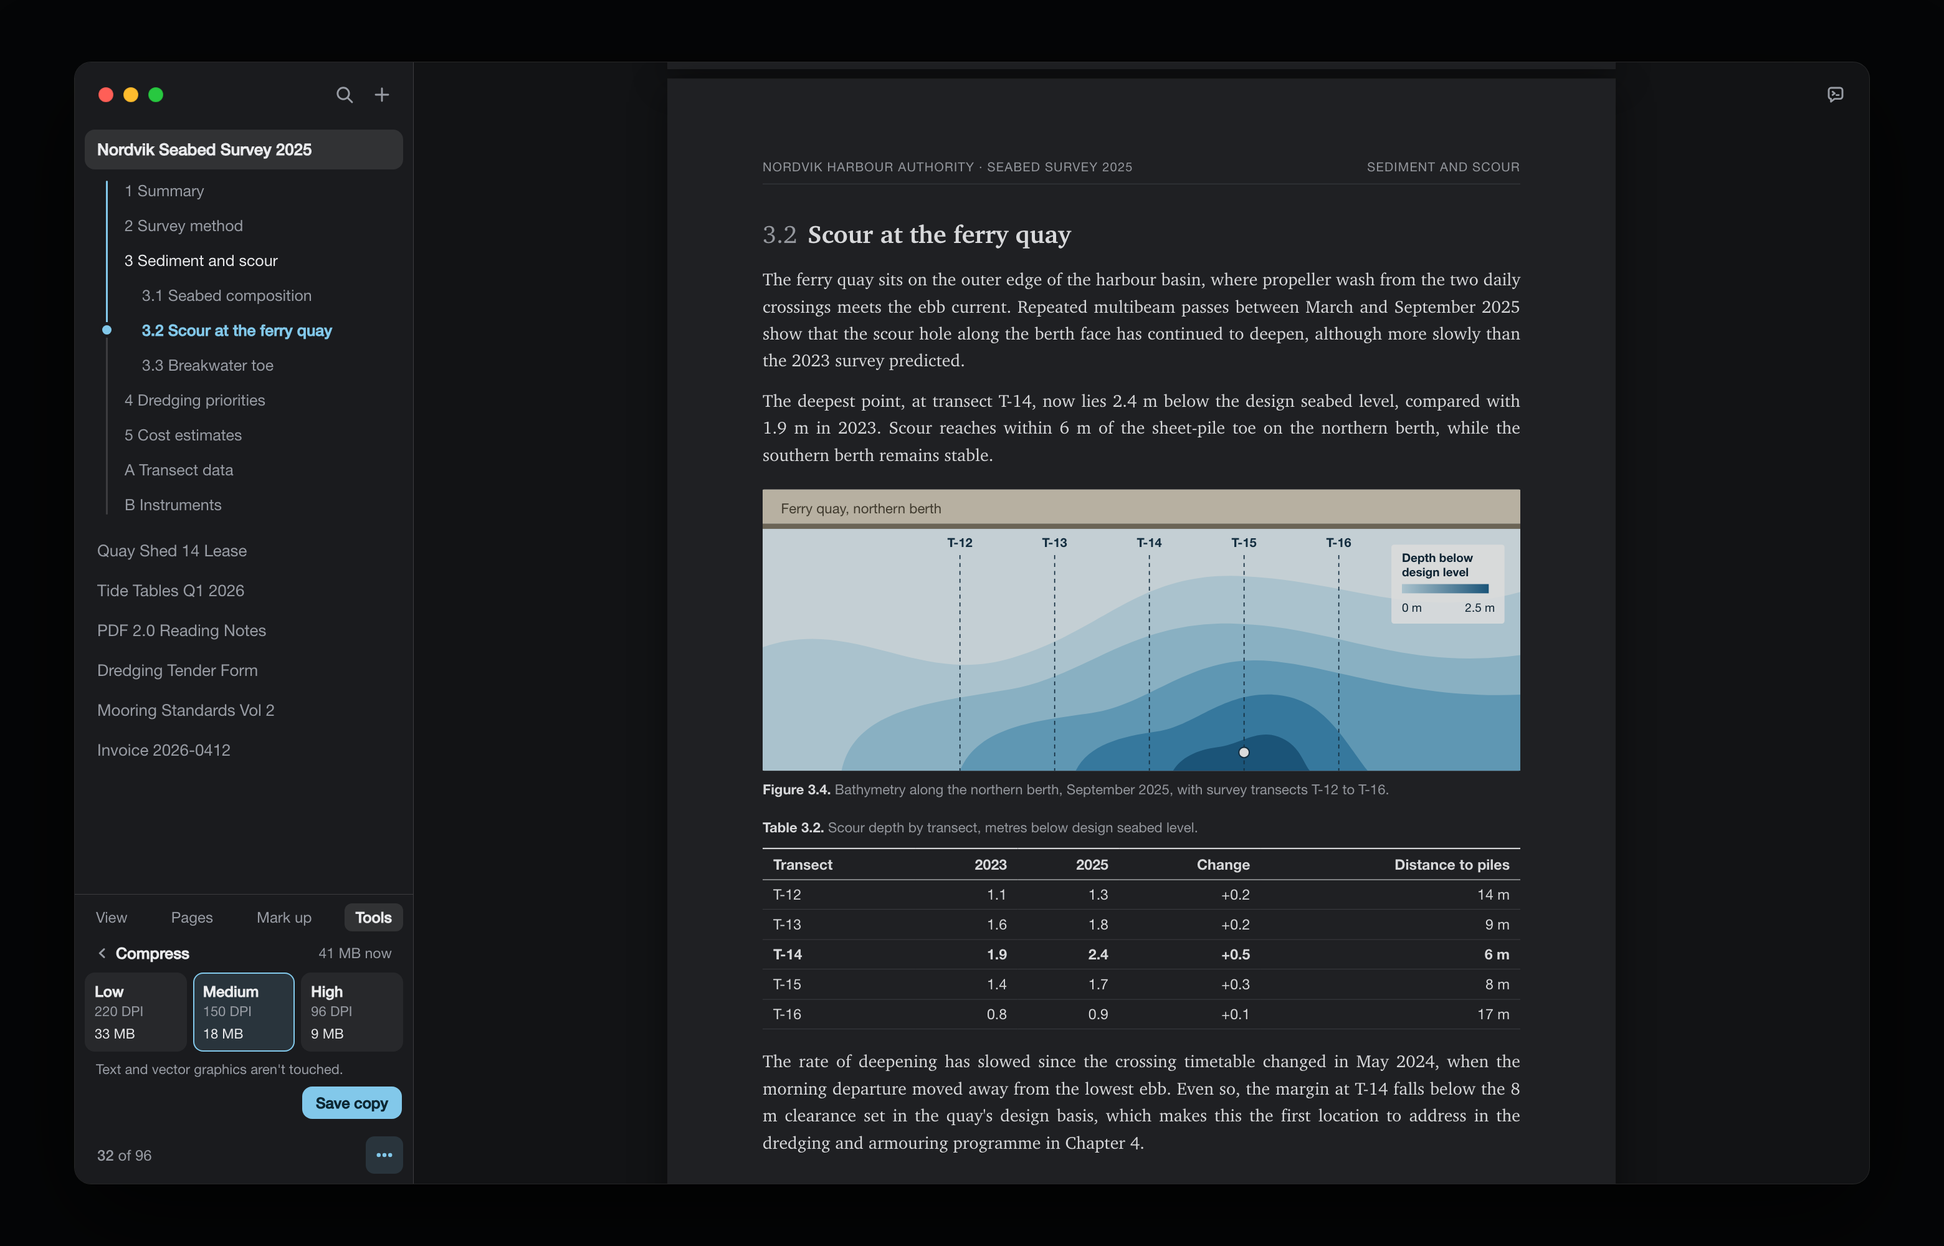
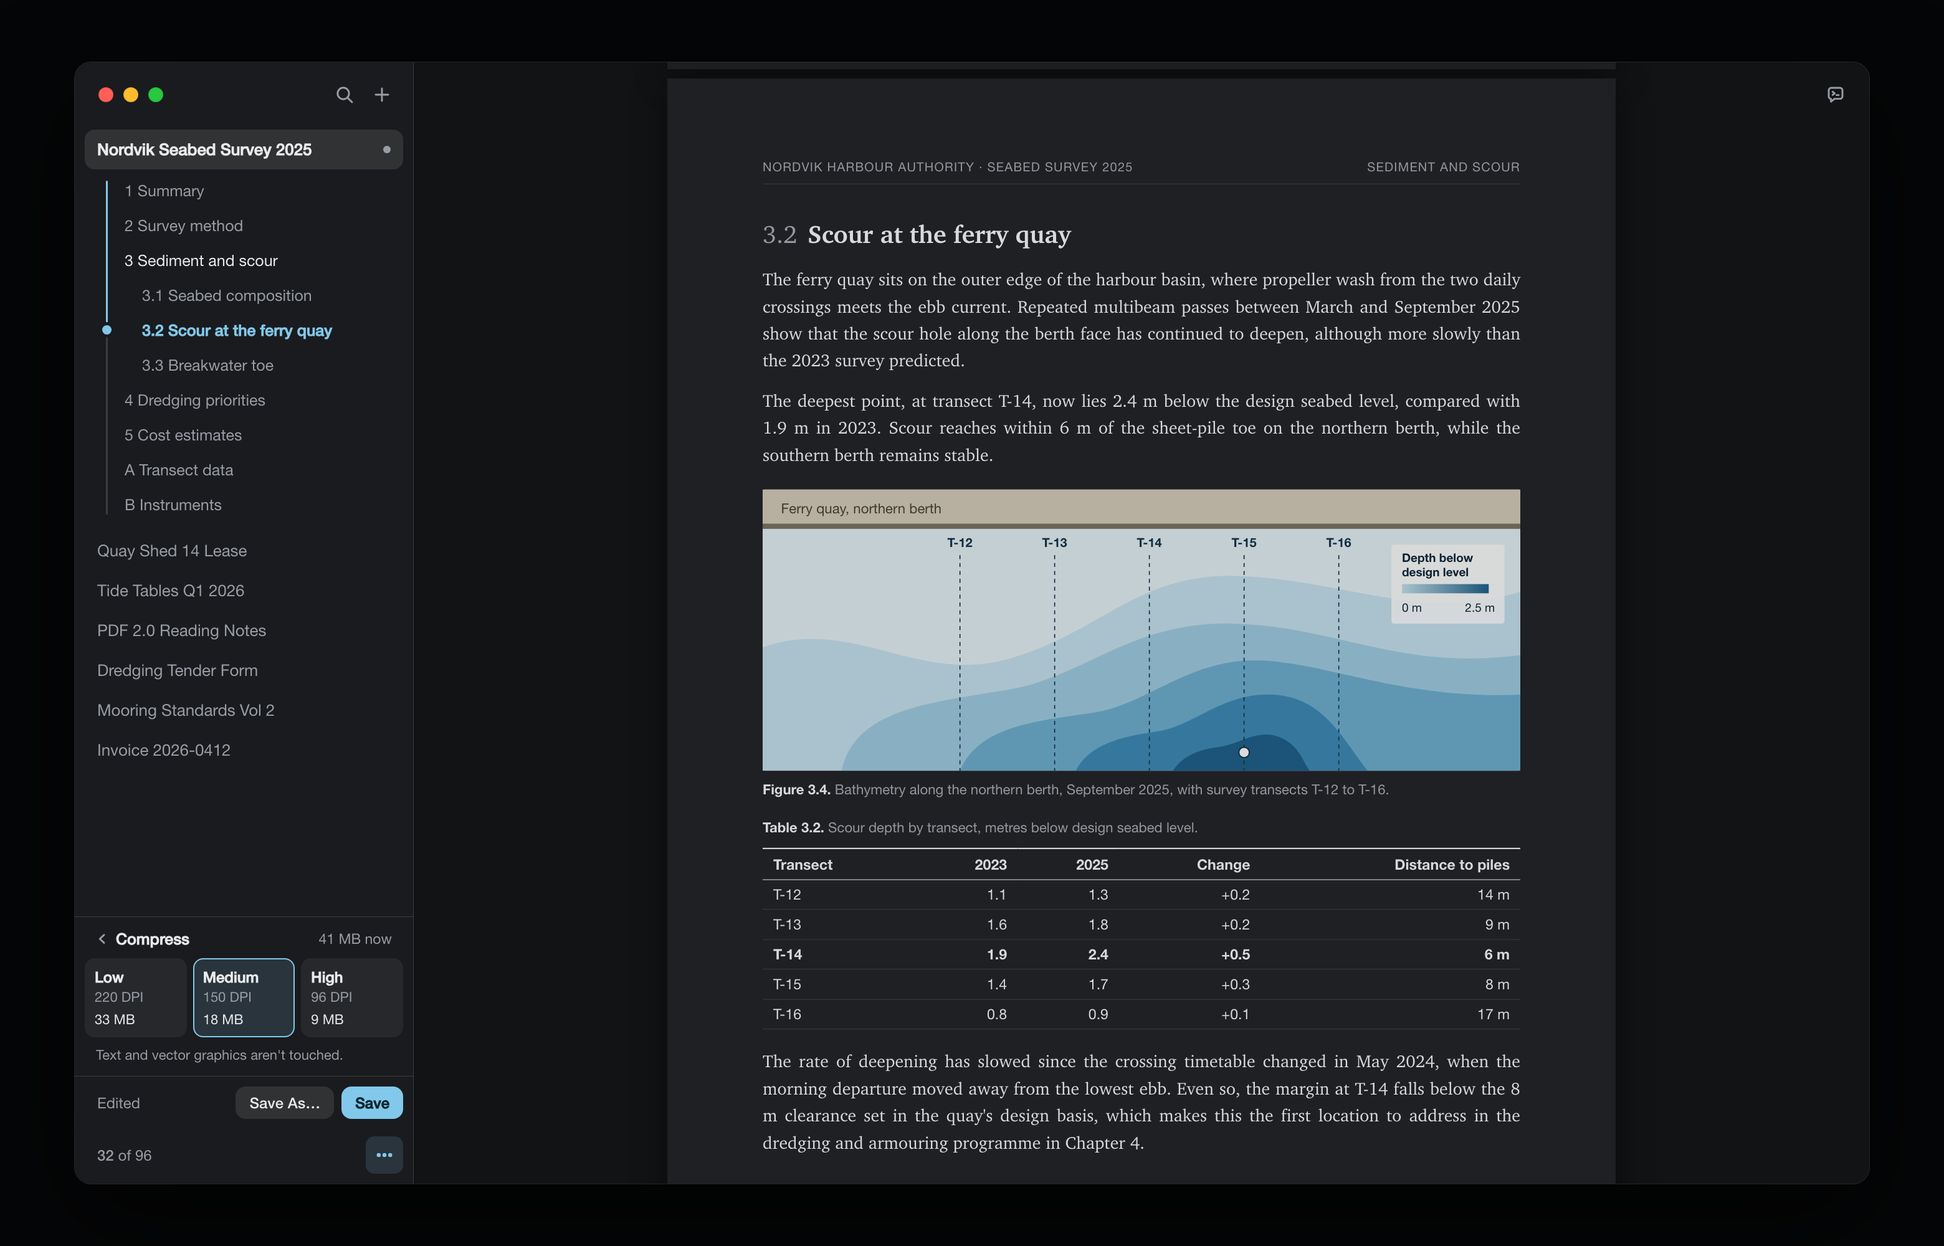
Give every command a home in the macOS menu bar
Commands move to File, Edit, View, Go, Pages, Mark Up and Tools. The sidebar
panel keeps only reading-time controls, and Save and Save As appear when there
are unsaved changes.

Changed region(s): [[0.0311, 0.713, 0.1865, 0.899], [0.1865, 0.713, 0.2176, 0.744]]

diff --git a/docs/concepts/src/concept.js b/docs/concepts/src/concept.js
@@ -62,44 +62,56 @@ function tocHtml(items, showPages = false) {
 }
 
 // At rest: names and contents only. Page numbers and the chevron appear on hover.
-function sidebar({ active = "survey", open = true, tabs = TABS, tap = false, hover = false, on = "", pg = [32, 96], body = null, chrome = true, menu = "" } = {}) {
+function sidebar({ active = "survey", open = true, tabs = TABS, tap = false, hover = false, on = "", pg = [32, 96], body = null, chrome = true, menu = "", edited = false } = {}) {
   const rows = tabs.map((t) => {
     const isOn = t.id === active;
-    return `<div class="tab ${isOn ? "active" : ""}"><span class="name">${t.name}</span>
+    return `<div class="tab ${isOn ? "active" : ""}"><span class="name">${t.name}</span>${isOn && edited ? '<i class="dot"></i>' : ""}
       ${isOn && (hover || !open) ? `<span class="chev ${open ? "open" : ""}">${I.chev}</span>` : ""}</div>
       ${isOn && body ? body : ""}${isOn && open && !body && t.toc ? tocHtml(t.toc, hover) : ""}`;
   }).join("");
   return `<aside class="sidebar">
     <div class="side-top"><div class="lights"><i></i><i></i><i></i></div><span class="ibtn ${on.includes("search") ? "on" : ""}">${I.search}</span><span class="ibtn">${I.plus}</span></div>
     <div class="tabs" style="position:relative">${rows}${tap ? '<span class="tap"></span>' : ""}</div>
-    ${menu}<div class="side-foot">${chrome ? `<span class="place"><b>${pg[0]}</b> of ${pg[1]}</span>` : "<span></span>"}<span class="ibtn ${on.includes("more") ? "on" : ""}">${I.more}</span></div>
+    ${menu}${edited ? SAVEROW : ""}<div class="side-foot">${chrome ? `<span class="place"><b>${pg[0]}</b> of ${pg[1]}</span>` : "<span></span>"}<span class="ibtn ${on.includes("more") ? "on" : ""}">${I.more}</span></div>
   </aside>`;
 }
 
 const AGENT = (on = false) => `<span class="ibtn agentbtn ${on ? "on" : ""}">${I.ask}</span>`;
 const pill = (page, total) => `<div class="pill"><span class="sec"><span class="num">${page}</span> of ${total}</span></div>`;
-// The ⋯ button opens this in the lower part of the sidebar. PDFs and contents stay visible above it.
-const DOCK_TABS = ["View", "Pages", "Mark up", "Tools"];
-const grid = (items) => `<div class="dgrid">${items.map((t) => `<span>${t}</span>`).join("")}</div>`;
+// The ⋯ button opens this in the lower sidebar. It holds only what you touch while reading; the macOS menu bar has the rest.
+const DOCK_TABS = ["View", "Mark up", "Pages"];
+const grid = (items, on = "") => `<div class="dgrid">${items.map((t) => `<span class="${t === on ? "on" : ""}">${t}</span>`).join("")}</div>`;
 const PANES = {
   View: () => `<div class="dpane">
     <div class="drow">Zoom<span class="zoom"><span class="zb">${I.minus}</span>125%<span class="zb">${I.plus14}</span><span class="zb">${I.fit}</span></span></div>
     ${theme === "dark" ? `<div class="drow">Paper<span class="seg mini"><span class="on">Dark</span><span>White</span></span></div>` : ""}
-    <div class="drow">Layout<span class="seg mini"><span class="on">Single</span><span>Spread</span></span></div></div>
-    ${grid(["Focus view", "Hide sidebar", "Print…", "Settings…"])}`,
-  Pages: () => grid(["Thumbnails", "Rotate", "Reorder", "Insert", "Delete", "Extract", "Merge", "Split"]),
-  "Mark up": () => grid(["Highlight", "Underline", "Strikeout", "Note", "Draw", "Image signature", "Fill form", "Create form"]),
-  Tools: () => grid(["Snapshot", "Compare", "Compress", "Make searchable", "Redact", "Remove hidden data", "Watermark", "Bates numbers", "Password", "Measure"]),
+    <div class="drow">Layout<span class="seg mini"><span class="on">Single</span><span>Spread</span></span></div></div>`,
+  "Mark up": () => grid(["Highlight", "Underline", "Strikeout", "Note", "Draw", "Signature image"], "Highlight"),
+  Pages: () => grid(["Thumbnails", "Rotate", "Delete", "Extract"]),
 };
-const DOCK = (tab = "View", body = "") => `<div class="dock"><div class="dtabs">${DOCK_TABS.map((t) => `<span class="${t === tab ? "on" : ""}">${t}</span>`).join("")}</div>${body || PANES[tab]()}</div>`;
+const DOCK = (tab = "View", body = "") => body ? `<div class="dock">${body}</div>` : `<div class="dock"><div class="dtabs">${DOCK_TABS.map((t) => `<span class="${t === tab ? "on" : ""}">${t}</span>`).join("")}</div>${PANES[tab]()}</div>`;
+// Save and Save As are the normal commands. These buttons appear only while there are unsaved changes.
+const SAVEROW = `<div class="saverow"><span class="edited">Edited</span><span class="btn ghost small">Save As…</span><span class="btn primary small">Save</span></div>`;
 const COMPRESS = `<div class="dback">${I.back}Compress<span>41 MB now</span></div>
   <div class="levels">
     <div class="lvl"><b>Low</b><span>220 DPI</span><em>33 MB</em></div>
     <div class="lvl on"><b>Medium</b><span>150 DPI</span><em>18 MB</em></div>
     <div class="lvl"><b>High</b><span>96 DPI</span><em>9 MB</em></div>
   </div>
-  <div class="dnote">Text and vector graphics aren't touched.</div>
-  <div class="dsave"><span class="btn primary small">Save copy</span></div>`;
+  <div class="dnote">Text and vector graphics aren't touched.</div>`;
+
+// Every command has one home in the macOS menu bar. Each entry is a label and its shortcut; "-" is a separator.
+const MENUS = {
+  File: [["Open…", "⌘O"], ["Open Recent", "▸"], "-", ["Close Tab", "⌘W"], ["Save", "⌘S"], ["Save As…", "⇧⌘S"], ["Revert to Saved", ""], "-", ["Compress…", ""], ["Make Searchable…", ""], ["Password…", ""], ["Remove Hidden Data…", ""], "-", ["Print…", "⌘P"]],
+  Edit: [["Undo", "⌘Z"], ["Redo", "⇧⌘Z"], "-", ["Cut", "⌘X"], ["Copy", "⌘C"], ["Paste", "⌘V"], ["Select All", "⌘A"], "-", ["Find…", "⌘F"], ["Find Next", "⌘G"], ["Find Previous", "⇧⌘G"]],
+  View: [["Zoom In", "⌘+"], ["Zoom Out", "⌘−"], ["Actual Size", "⌘0"], ["Fit Width", ""], "-", ["Paper", "▸"], ["Single Page", ""], ["Two-Page Spread", ""], "-", ["Show Sidebar", "⌃⌘S"], ["Show Agent", "⌥⌘A"], ["Focus View", "⇧⌘F"], ["Enter Full Screen", "⌃⌘F"]],
+  Go: [["Back", "⌘["], ["Forward", "⌘]"], "-", ["Next Page", "⌥↓"], ["Previous Page", "⌥↑"], ["Go to Page…", "⌘L"], "-", ["Next Tab", "⌃⇥"], ["Previous Tab", "⌃⇧⇥"]],
+  Pages: [["Show Thumbnails", ""], "-", ["Rotate Left", ""], ["Rotate Right", ""], ["Delete", ""], ["Extract…", ""], ["Insert…", ""], "-", ["Merge PDFs…", ""], ["Split…", ""]],
+  "Mark Up": [["Highlight", ""], ["Underline", ""], ["Strikeout", ""], ["Note", ""], ["Draw", ""], "-", ["Signature Image…", ""], ["Fill Form", ""], ["Create Form…", ""]],
+  Tools: [["All Commands…", "⌘K"], "-", ["Snapshot", "⌥⌘4"], ["Copy Image", ""], "-", ["Compare…", ""], ["Redact…", ""], ["Watermark…", ""], ["Bates Numbers…", ""], ["Measure", ""]],
+};
+const menuList = (name) => `<div class="mlist">${MENUS[name].map((m) => m === "-" ? '<div class="msep"></div>' : `<div class="mitem"><span>${m[0]}</span><kbd>${m[1]}</kbd></div>`).join("")}</div>`;
+const MACBAR = (open = "") => `<div class="macbar"><b>RectoPDF</b>${Object.keys(MENUS).map((n) => `<span class="${n === open ? "on" : ""}">${n}</span>`).join("")}<span>Window</span><span>Help</span></div>`;
 
 // A bathymetry figure with its own colours: it keeps them in PDF dark mode, like photos do.
 const FIGURE = `<svg viewBox="0 0 576 214" xmlns="http://www.w3.org/2000/svg" font-family="-apple-system, Helvetica Neue, sans-serif">
@@ -232,8 +244,11 @@ const Screens = {
   reader: () => `<div class="window">${sidebar({})}<main class="main">${surface({ extra: AGENT() })}</main></div>`,
   paperwhite: () => `<div class="window">${sidebar({})}<main class="main">${surface({ cls: "true-page", extra: AGENT() })}</main></div>`,
   menu: () => `<div class="window">${sidebar({ on: "more", menu: DOCK("View") })}<main class="main">${surface({ extra: AGENT() })}</main></div>`,
-  tools: () => `<div class="window">${sidebar({ on: "more", menu: DOCK("Tools") })}<main class="main">${surface({ extra: AGENT() })}</main></div>`,
-  compress: () => `<div class="window">${sidebar({ on: "more", menu: DOCK("Tools", COMPRESS) })}<main class="main">${surface({ extra: AGENT() })}</main></div>`,
+  markup: () => `<div class="window">${sidebar({ on: "more", menu: DOCK("Mark up") })}<main class="main">${surface({ extra: AGENT() })}</main></div>`,
+  compress: () => `<div class="window">${sidebar({ on: "more", menu: DOCK("", COMPRESS), edited: true })}<main class="main">${surface({ extra: AGENT() })}</main></div>`,
+  edited: () => `<div class="window">${sidebar({ edited: true })}<main class="main">${surface({ cls: "show-mark", extra: AGENT() })}</main></div>`,
+  menufile: () => `${MACBAR("File")}<div class="mdrop" style="left:119px">${menuList("File")}</div><div class="window">${sidebar({})}<main class="main">${surface({ extra: AGENT() })}</main></div>`,
+  menumap: () => `<div class="board-map">${MACBAR()}<div class="map">${Object.keys(MENUS).map((n) => `<div class="mapcol"><h4>${n}</h4>${menuList(n)}</div>`).join("")}</div></div>`,
   find: () => `<div class="window">${sidebar({ on: "search", body: FIND })}<main class="main">${surface({ cls: "show-hits", extra: AGENT() })}</main></div>`,
   ask: () => `<div class="window">${sidebar({})}<main class="main">${surface({ cls: "show-cite", width: 700 })}${ASK}</main></div>`,
   sign: () => `<div class="window">${sidebar({ active: "lease", pg: [6, 6], body: STATUS + tocHtml(LEASE_TOC) })}<main class="main">${surface({ page: LEASE_PAGE, width: 700 })}${SIGN}</main></div>`,

diff --git a/docs/concepts/src/concept.css b/docs/concepts/src/concept.css
@@ -314,7 +314,7 @@ mark { background: transparent; color: inherit; }
 /* The ⋯ button opens a compact panel docked in the lower sidebar, not a popover. */
 .tabs { min-height: 0; }
 .dock { flex: none; border-top: .5px solid var(--hair-strong); padding: 7px 8px 6px; font-size: 12.5px; }
-.dtabs { display: grid; grid-template-columns: repeat(4, auto); justify-content: space-between; margin-bottom: 7px; }
+.dtabs { display: flex; gap: 4px; margin-bottom: 7px; }
 .dtabs span { padding: 3px 9px; border-radius: 6px; color: var(--muted); font-size: 12px; }
 .dtabs span.on { color: var(--text); background: var(--fill-strong); font-weight: 560; }
 .dpane { padding-bottom: 2px; }
@@ -339,3 +339,28 @@ mark { background: transparent; color: inherit; }
 .side-foot .place { display: block; }
 .tap { left: 224px; top: 3px; }
 .p-head { padding-right: 12px; }
+
+/* Save appears only with unsaved changes. */
+.saverow { flex: none; display: flex; align-items: center; gap: 6px; padding: 8px 8px 8px 18px; border-top: .5px solid var(--hair-strong); }
+.edited { flex: 1; font-size: 12px; color: var(--muted); }
+.tab .dot { width: 6px; height: 6px; border-radius: 50%; background: var(--muted); flex: none; }
+.show-mark mark.cite { background: var(--hit); color: #1a1600; box-shadow: 0 0 0 1px var(--hit); border-radius: 1px; }
+.dgrid span.on { background: var(--accent-soft); color: var(--accent); font-weight: 560; }
+
+/* The macOS menu bar, drawn above the window. It costs the window nothing. */
+#stage { place-items: center; }
+.macbar { position: absolute; top: 0; left: 0; right: 0; height: 26px; display: flex; align-items: center; gap: 2px; padding: 0 12px; font-size: 13px; background: var(--pill); color: var(--text); box-shadow: 0 .5px 0 var(--hair-strong); z-index: 20; backdrop-filter: blur(20px); }
+.macbar b { font-weight: 700; margin-right: 8px; padding-left: 4px; }
+.macbar span { padding: 2px 8px; border-radius: 5px; }
+.macbar span.on { background: var(--accent); color: var(--accent-ink); }
+.mdrop { position: absolute; top: 28px; width: 256px; z-index: 21; background: var(--raised); border-radius: 10px; padding: 5px; box-shadow: 0 0 0 .5px var(--hair-strong), 0 16px 44px rgba(0,0,0,.3); font-size: 13px; }
+.mitem { display: flex; justify-content: space-between; align-items: center; height: 24px; padding: 0 9px; border-radius: 5px; white-space: nowrap; }
+.mitem kbd { font: 12px -apple-system, sans-serif; color: var(--faint); margin-left: 16px; }
+.msep { height: .5px; background: var(--hair-strong); margin: 4px 9px; }
+.board-map { width: 1560px; height: 1000px; position: relative; background: var(--canvas); padding-top: 64px; }
+.map { display: grid; grid-template-columns: repeat(7, 1fr); gap: 12px; padding: 0 24px; align-items: start; }
+.mapcol h4 { font-size: 13px; font-weight: 640; padding: 0 0 8px 12px; }
+.mlist { font-size: 12.5px; }
+.mapcol .mlist { background: var(--raised); border-radius: 10px; padding: 5px; box-shadow: 0 0 0 .5px var(--hair-strong), 0 8px 24px rgba(0,0,0,.12); }
+.mapcol .mitem { padding: 0 7px; }
+.mapcol .mitem kbd { margin-left: 6px; font-size: 11px; }

diff --git a/docs/concepts/src/overview.html b/docs/concepts/src/overview.html
@@ -1,3 +1,3 @@
 <!DOCTYPE html><meta charset="utf-8"><title>RectoPDF concepts</title>
 <style>*{margin:0;box-sizing:border-box}body{width:1600px;background:#8d9095;padding:20px;display:grid;grid-template-columns:1fr 1fr;gap:16px}img{width:100%;display:block;border-radius:6px}</style>
-<img src="../home-light.png"><img src="../home-dark.png"><img src="../reader-light.png"><img src="../reader-dark.png"><img src="../reader-dark.png"><img src="../reader-dark-white-paper.png"><img src="../menu-light.png"><img src="../menu-dark.png"><img src="../tools-light.png"><img src="../tools-dark.png"><img src="../compress-light.png"><img src="../compress-dark.png"><img src="../find-light.png"><img src="../find-dark.png"><img src="../ask-light.png"><img src="../ask-dark.png"><img src="../sign-light.png"><img src="../sign-dark.png"><img src="../focus-light.png"><img src="../focus-dark.png">
+<img src="../home-light.png"><img src="../home-dark.png"><img src="../reader-light.png"><img src="../reader-dark.png"><img src="../reader-dark.png"><img src="../reader-dark-white-paper.png"><img src="../menu-light.png"><img src="../menu-dark.png"><img src="../markup-light.png"><img src="../markup-dark.png"><img src="../edited-light.png"><img src="../edited-dark.png"><img src="../menufile-light.png"><img src="../menufile-dark.png"><img src="../menumap-light.png"><img src="../menumap-dark.png"><img src="../compress-light.png"><img src="../compress-dark.png"><img src="../find-light.png"><img src="../find-dark.png"><img src="../ask-light.png"><img src="../ask-dark.png"><img src="../sign-light.png"><img src="../sign-dark.png"><img src="../focus-light.png"><img src="../focus-dark.png">

diff --git a/SPEC.md b/SPEC.md
@@ -70,7 +70,9 @@ Reference: `docs/concepts/`. Rules from the owner:
 - **No top bar.** Maximum vertical reading space; nothing sits above or over a page.
 - **Tabs live in the sidebar.** Tapping the active PDF folds or opens its contents.
 - **At rest the sidebar is only names and contents.** The rail fills as you read. Chevron and page numbers appear on hover.
-- **Everything else lives in a compact panel** that the `⋯` button opens in the lower part of the sidebar, with tabs for View, Pages, Mark up and Tools. Owner, 2026-11-06: "the way we can add complex features without making the app complex is to let the … menu toggle open a compact menu in lower part of left sidebar with tabs". A tool such as Compress opens in place inside the panel, and the PDFs and contents stay visible above it. ⌘K finds any command.
+- **The macOS menu bar is the home of every command** (owner, 2026-11-06: "Not all options need to be in the sidebar. A lot can be in the macos top bar instead"). Menus: File, Edit, View, Go, Pages, Mark Up, Tools, Window, Help. Map: `docs/concepts/menumap-light.png`. Rust decides which items exist and which are enabled. ⌘K finds any command.
+- **The `⋯` panel holds only what you touch while reading** (owner: "let the … menu toggle open a compact menu in lower part of left sidebar with tabs"). It opens in the lower sidebar with three tabs: View (zoom, paper, layout), Mark up, and Pages. A tool started from the menu bar that needs choices, such as Compress, opens here, in place of the tabs.
+- **Save and Save As are the normal commands** (owner: "Save a copy is a normal save / save as buttons, when there are changes"). The buttons appear above the footer only while there are unsaved changes, and the active PDF gets a small dot.
 - **Agent icon at the top right**, in the empty margin. It opens the agent panel and stays in the same spot.
 - **Dark mode offers dark or white paper.** Signing always shows the true page.
 - **Focus view:** sidebar hidden, page number only, agent icon kept.
@@ -99,10 +101,11 @@ Reference: `docs/concepts/`. Rules from the owner:
 | Annotations | Highlight, underline, strikeout, note, ink. Notes autosave beside the file, and go into the PDF on Save (*default*) |
 | Forms | Filling, owned by the Rust core and lopdf (*default*). No JavaScript; detect and explain. Dynamic XFA detected only (*default*) |
 | Signing | **Placeholder for now** (owner, 2026-11-06): the labelled image option, a neutral "signature present, not checked" report, and the final seams in `recto-sign`. No file is signed cryptographically until it's built properly to the official standards (ISO 32000-2, ETSI EN 319 142, RFC 5652, RFC 3161) |
-| Page tools | Rotate, delete, reorder, extract, insert, merge, split. Signed files go to a copy |
-| Security | Password protection. Deleting offers **Save a clean copy**, because appending leaves old data in the file |
+| Page tools | Rotate, delete, reorder, extract, insert, merge, split |
+| Security | Password protection |
+| Saving | **Save** and **Save As**, atomic, never partly written. Adding things appends to the file. **Removing things (delete a page, redact, compress) rewrites it, so the old data is really gone.** If a change would break a signature, Save is off and Save As explains why. One backup of the original on first save (*default*) |
 | Compare | Text first, read-only |
-| Compress | **Low, Medium, High to a fixed image DPI, then save.** Start: 220, 150, 96 DPI. Measured at printed size; never enlarges, leaves text, vectors and 1-bit scans alone; cleans the file first. Saves a new file (*default*) |
+| Compress | **Low, Medium, High to a fixed image DPI, then save.** Start: 220, 150, 96 DPI. Measured at printed size; never enlarges, leaves text, vectors and 1-bit scans alone; cleans the file first. Then a normal Save or Save As |
 | OCR | Tesseract, with **Save as searchable PDF**: an invisible text layer with an embedded Unicode font, in a helper process |
 | Extraction | **Click an image to copy it losslessly.** **Snapshot tool:** drag a box for text, PNG, SVG and JPG, all on the clipboard at once |
 
@@ -141,3 +144,5 @@ Numbered so they can be cited. Newest last.
 13. **Signatures are a placeholder for now.** Owner: "lets do a signature place holder for now. We can build it out properly later using the official standards. So structure the code accordingly." A placeholder never produces anything that looks like a signature.
 14. **All five extra tools are in this build.** Owner answered yes on 2026-11-06.
 15. **PDFium confirmed for now** (*default*). Fast on 5,689 real pages; two lines of the benchmark's rule fail, so the rule is amended as in §3.
+16. **Normal Save and Save As.** Owner, 2026-11-06. Replaces the earlier save-to-a-copy default.
+17. **Commands live in the macOS menu bar;** the sidebar panel keeps only what you use while reading. Owner, 2026-11-06.
